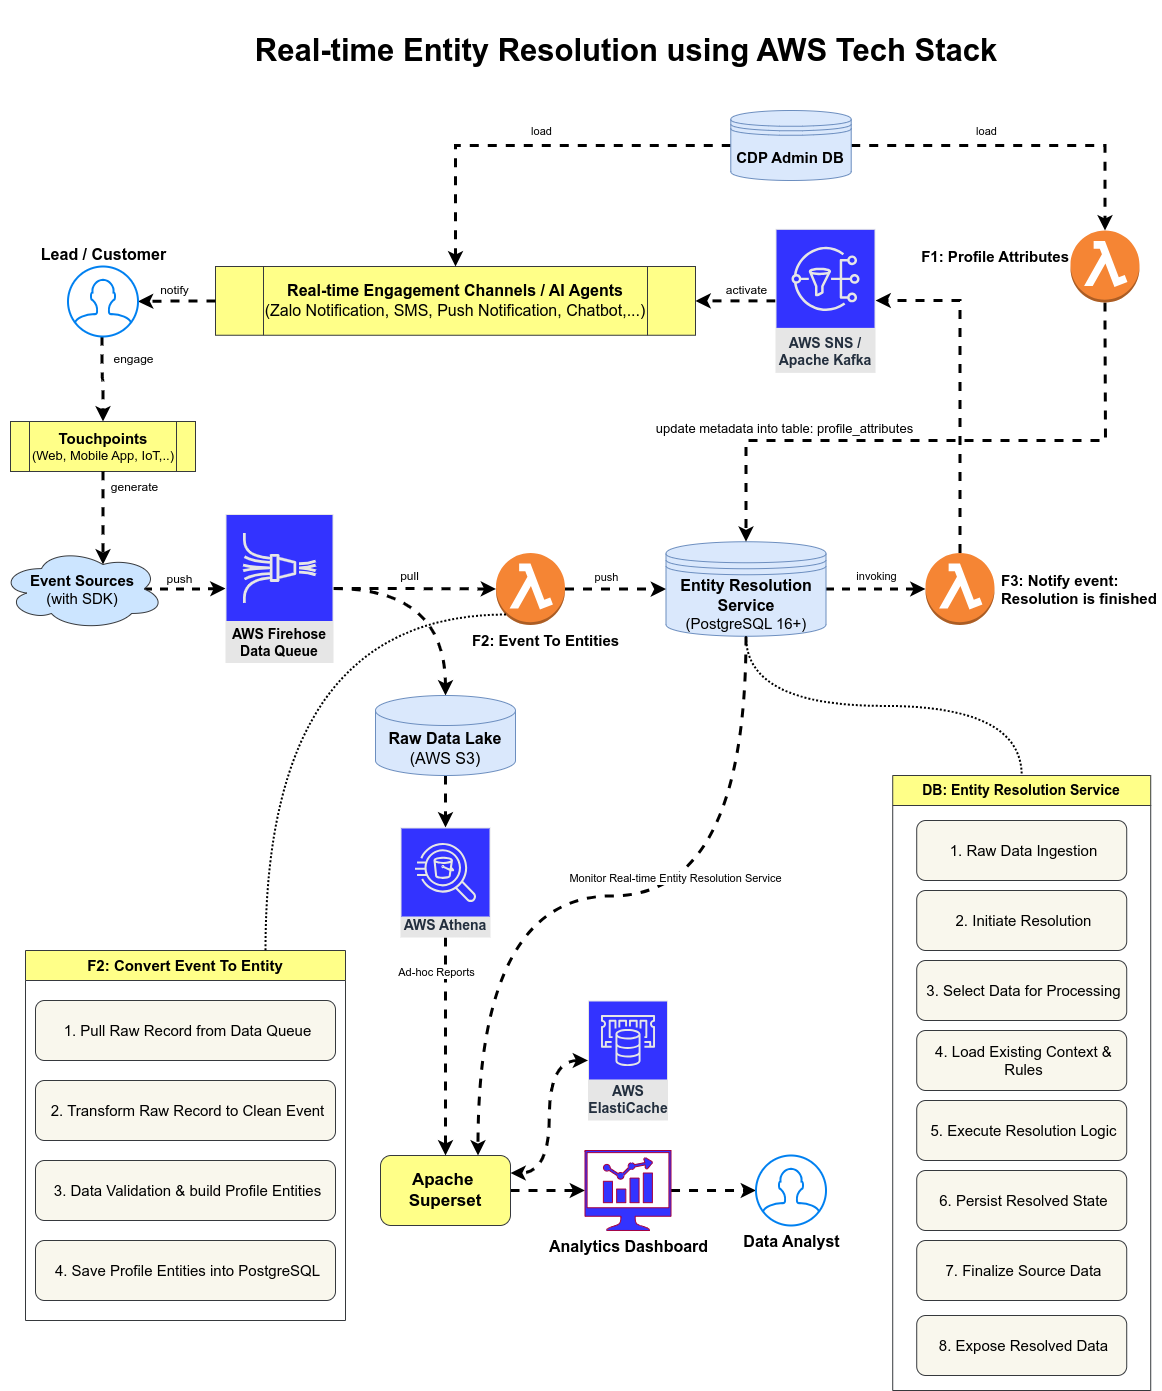
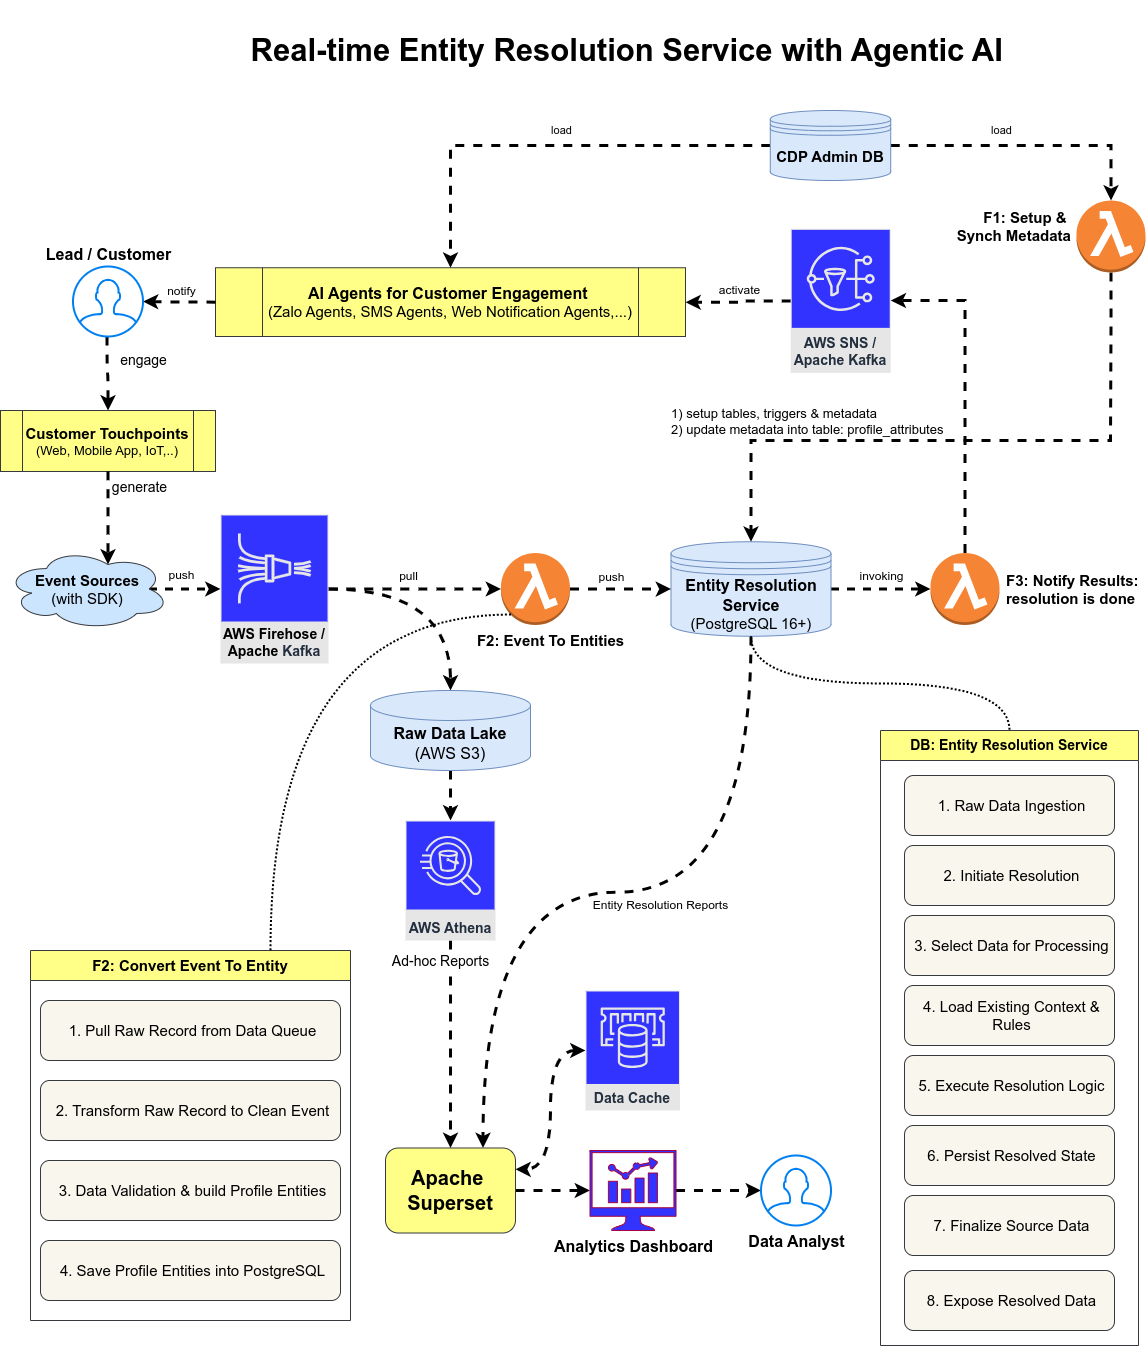
update docs, refactoring code

diff --git a/README.md b/README.md
@@ -80,7 +80,8 @@ Kiến trúc giải pháp bao gồm các luồng dữ liệu chính: thu thập 
 8.  **CDP Admin DB:** Cơ sở dữ liệu quản trị cho Nền tảng Dữ liệu Khách hàng (CDP), có thể lưu trữ các cấu hình và dữ liệu quản trị khác.
 
 9.  **F1: Profile Attributes (Lambda):**
-    Một Lambda function có nhiệm vụ cập nhật metadata vào bảng `profile_attributes` trong Entity Resolution Service DB. Dữ liệu metadata này được lấy từ CDP Admin DB.
+    Một Lambda function có nhiệm vụ tạo tables, triggers và metadata của Identity Resulution bằng tất cả SQL files trong sql-tests. 
+    Sau đó, định kỳ F1 Lambda sẽ cập nhật metadata vào bảng `cdp_profile_attributes` trong Entity Resolution Service DB từ CDP Admin DB
 
         Flow:
         CDP Admin -> CDP Admin DB -> F1 Lambda -> Bảng `profile_attributes` (trong Entity Resolution Service DB)
